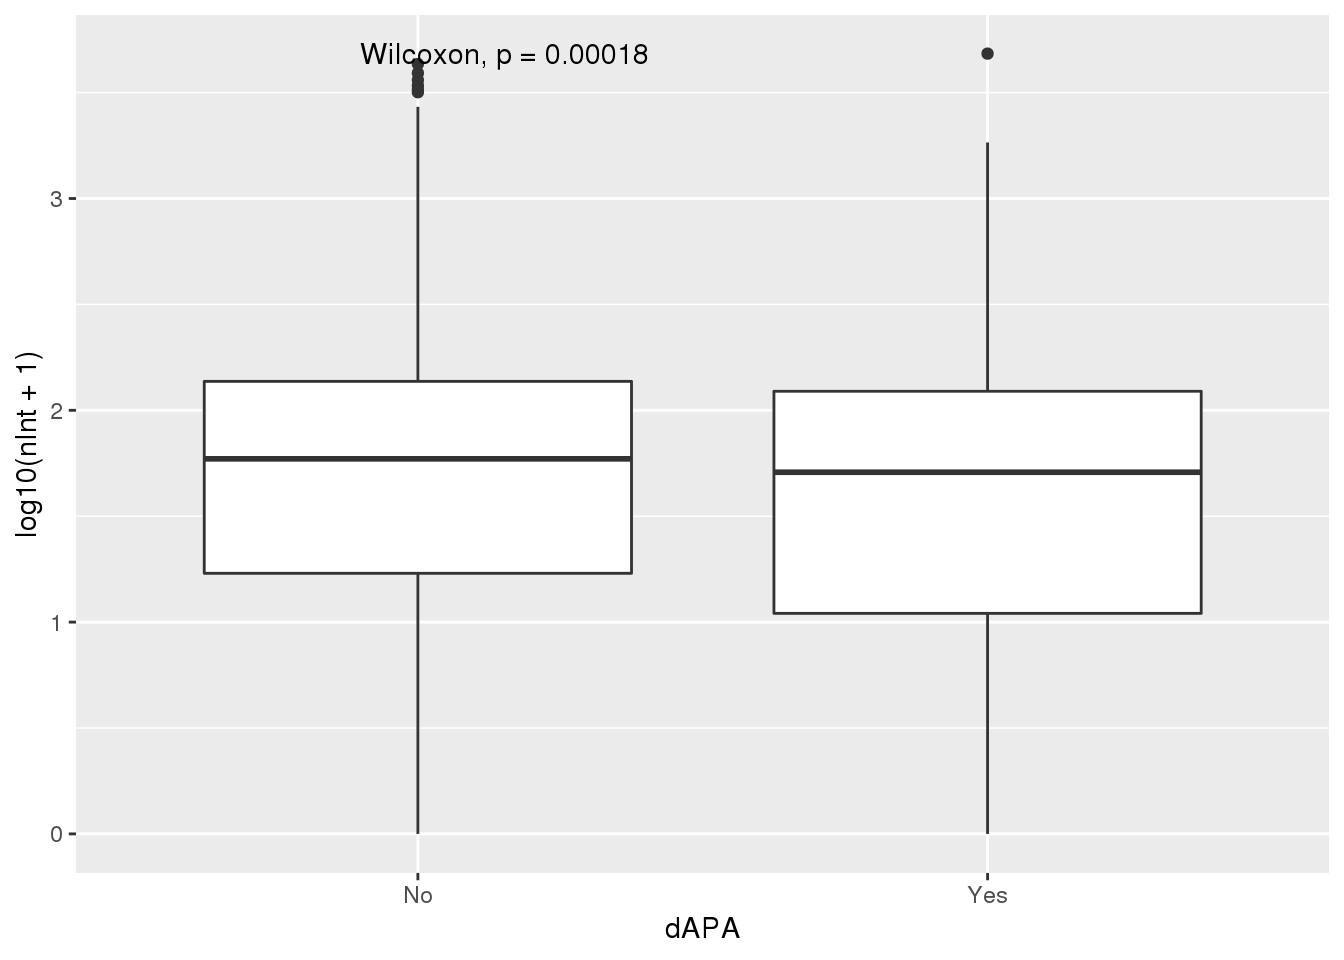
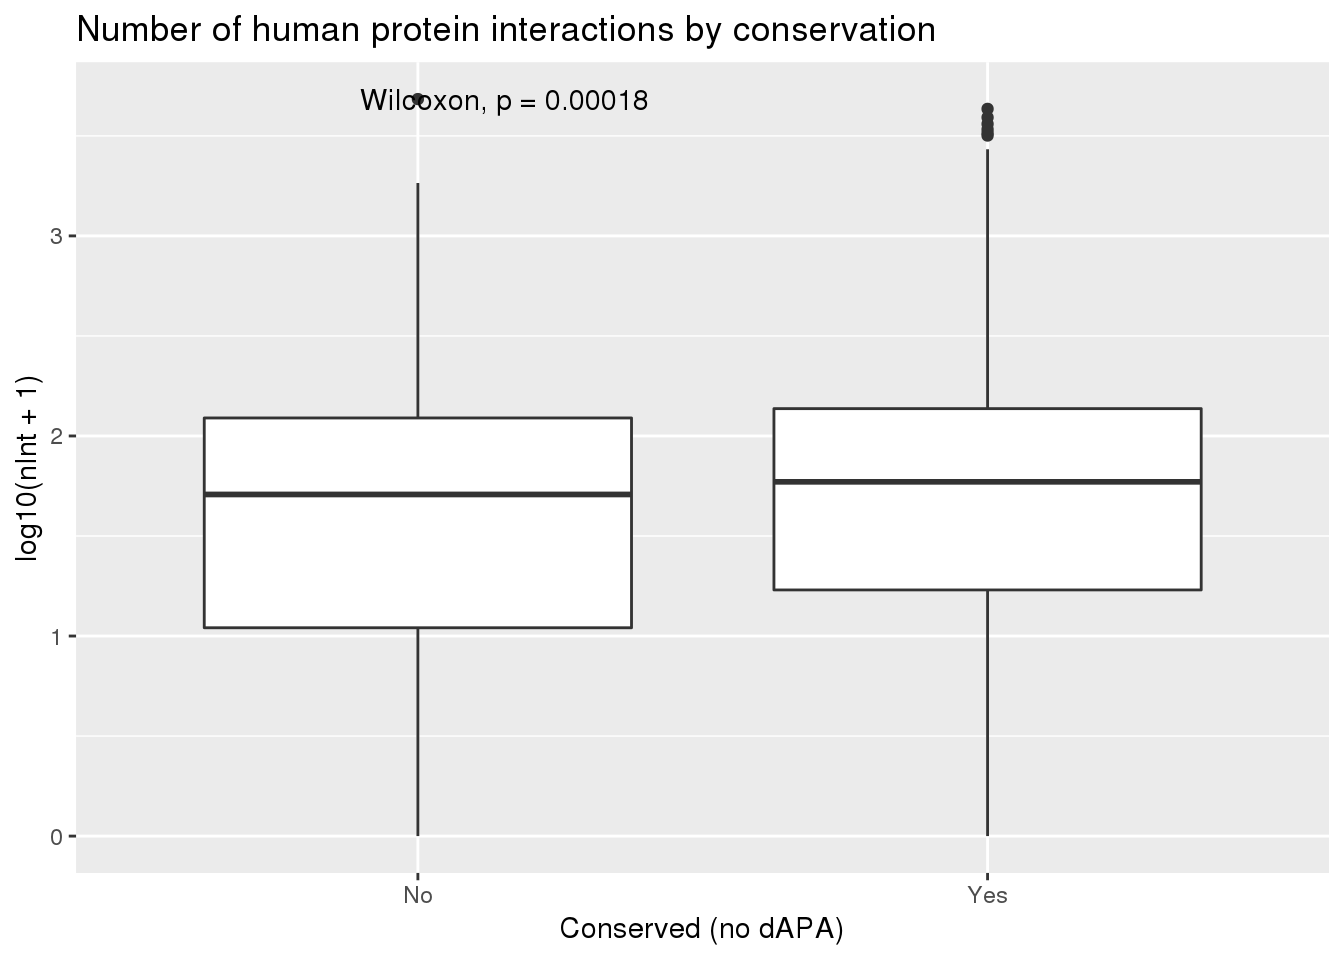
Build site.

diff --git a/docs/PTM_analysis.html b/docs/PTM_analysis.html
@@ -343,7 +343,7 @@ div.section {
 <div class="tab-content">
 <div id="summary" class="tab-pane fade in active">
 <p>
-<strong>Last updated:</strong> 2020-04-10
+<strong>Last updated:</strong> 2020-04-15
 </p>
 <p>
 <strong>Checks:</strong> <span class="glyphicon glyphicon-ok text-success" aria-hidden="true"></span> 7 <span class="glyphicon glyphicon-exclamation-sign text-danger" aria-hidden="true"></span> 0
@@ -434,10 +434,10 @@ This reproducible <a href="http://rmarkdown.rstudio.com">R Markdown</a> analysis
 <div class="panel panel-default">
 <div class="panel-heading">
 <p class="panel-title">
-<a data-toggle="collapse" data-parent="#workflowr-checks" href="#strongRepositoryversionstrongahrefhttpsgithubcombrimittlemanComparativeAPAtreedb347d06eb4978aec4be061af75655b0f1453afdtargetblankdb347d0a"> <span class="glyphicon glyphicon-ok text-success" aria-hidden="true"></span> <strong>Repository version:</strong> <a href="https://github.com/brimittleman/Comparative_APA/tree/db347d06eb4978aec4be061af75655b0f1453afd" target="_blank">db347d0</a> </a>
+<a data-toggle="collapse" data-parent="#workflowr-checks" href="#strongRepositoryversionstrongahrefhttpsgithubcombrimittlemanComparativeAPAtree8a989f74ec9f9c5e22e3fd099b22a3842e945b0etargetblank8a989f7a"> <span class="glyphicon glyphicon-ok text-success" aria-hidden="true"></span> <strong>Repository version:</strong> <a href="https://github.com/brimittleman/Comparative_APA/tree/8a989f74ec9f9c5e22e3fd099b22a3842e945b0e" target="_blank">8a989f7</a> </a>
 </p>
 </div>
[2 lines of base64/hex data omitted]
 <div class="panel-body">
 <p>
 Great! You are using Git for version control. Tracking code development and connecting the code version to the results is critical for reproducibility. The version displayed above was the version of the Git repository at the time these results were generated. <br><br> Note that you need to be careful to ensure that all relevant files for the analysis have been committed to Git prior to generating the results (you can use <code>wflow_publish</code> or <code>wflow_git_commit</code>). workflowr only checks the R Markdown file, but you know if there are other scripts or data files that it depends on. Below is the status of the Git repository when the results were generated:
@@ -460,6 +460,7 @@ Untracked files:
     Untracked:  ._.DS_Store
     Untracked:  Chimp/
     Untracked:  Human/
+    Untracked:  analysis/AREstabilityScores.Rmd
     Untracked:  analysis/CrossChimpThreePrime.Rmd
     Untracked:  analysis/DiffTransProtvsExpression.Rmd
     Untracked:  analysis/DiffUsedUTR.Rmd
@@ -699,6 +700,7 @@ Untracked files:
     Untracked:  code/FilterPrimSec.sh
     Untracked:  code/FilterReverseLift.err
     Untracked:  code/FilterReverseLift.out
+    Untracked:  code/FindDomXCutoff.py
     Untracked:  code/FindIntronForDomPAS.err
     Untracked:  code/FindIntronForDomPAS.out
     Untracked:  code/FindIntronForDomPAS.sh
@@ -781,6 +783,8 @@ Untracked files:
     Untracked:  code/RunNegMCMediationDF.out
     Untracked:  code/RunNegMCMediationDF.sh
     Untracked:  code/RunNegMCMediationr.out
+    Untracked:  code/RunNewDom.err
+    Untracked:  code/RunNewDom.out
     Untracked:  code/RunPosMCMediation.err
     Untracked:  code/RunPosMCMediation.sh
     Untracked:  code/RunPosMCMediationDF.err
@@ -1015,6 +1019,7 @@ Untracked files:
     Untracked:  code/runFilterNumChroms.sh
     Untracked:  code/runHumanDiffIso.sh
     Untracked:  code/runHumanDiffIsoDF.sh
+    Untracked:  code/runNewDom.sh
     Untracked:  code/runNuclearDiffIso_DF.sh
     Untracked:  code/runNuclearDifffIso.sh
     Untracked:  code/runTotalDiffIso.sh
@@ -1130,6 +1135,7 @@ Untracked files:
     Untracked:  data/._~$RNASEQ_metadata.xlsx
     Untracked:  data/._~$metadata_HCpanel.xlsx
     Untracked:  data/._.xlsx
+    Untracked:  data/ARE_Elements/
     Untracked:  data/BaseComp/
     Untracked:  data/CleanLiftedPeaks_FC_primary/
     Untracked:  data/CompapaQTLpas/
@@ -1142,6 +1148,7 @@ Untracked files:
     Untracked:  data/DiffSplice/
     Untracked:  data/DiffSplice_liftedJunc/
     Untracked:  data/DiffSplice_removeBad/
+    Untracked:  data/DomDefGreaterX/
     Untracked:  data/DominantPAS/
     Untracked:  data/DominantPAS_DF/
     Untracked:  data/EvalPantro5/
@@ -1213,6 +1220,7 @@ Untracked files:
     Untracked:  data/metadata_HCpanel_extra.txt
     Untracked:  data/metadata_HCpanel_frompantro5.txt
     Untracked:  data/metadata_HCpanel_frompantro5.xlsx
+    Untracked:  data/miRNA/
     Untracked:  data/multimap/
     Untracked:  data/orthoUTR/
     Untracked:  data/primaryLift/
@@ -1230,6 +1238,7 @@ Unstaged changes:
     Modified:   analysis/ExploredAPA.Rmd
     Modified:   analysis/MMExpreiment.Rmd
     Modified:   analysis/OppositeMap.Rmd
+    Modified:   analysis/TotalDomStructure.Rmd
     Modified:   analysis/TotalVNuclearBothSpecies.Rmd
     Modified:   analysis/annotationInfo.Rmd
     Modified:   analysis/changeMisprimcut.Rmd
@@ -1278,6 +1287,40 @@ Message
 </tr>
 </thead>
 <tbody>
+<tr>
+<td>
+Rmd
+</td>
+<td>
+<a href="https://github.com/brimittleman/Comparative_APA/blob/8a989f74ec9f9c5e22e3fd099b22a3842e945b0e/analysis/PTM_analysis.Rmd" target="_blank">8a989f7</a>
+</td>
+<td>
+brimittleman
+</td>
+<td>
+2020-04-15
+</td>
+<td>
+add ptm density
+</td>
+</tr>
+<tr>
+<td>
+html
+</td>
+<td>
+<a href="https://rawcdn.githack.com/brimittleman/Comparative_APA/8f72fb75aada53ce686dd19d52cd954bdbdfbaa1/docs/PTM_analysis.html" target="_blank">8f72fb7</a>
+</td>
+<td>
+brimittleman
+</td>
+<td>
+2020-04-10
+</td>
+<td>
+Build site.
+</td>
+</tr>
 <tr>
 <td>
 Rmd
@@ -1411,12 +1454,12 @@ add ptm analysis
 <pre><code>This is workflowr version 1.6.0
 Run ?workflowr for help getting started</code></pre>
 <pre class="r"><code>library(tidyverse)</code></pre>
-<pre><code>── Attaching packages ─────────────────────────────────────────────────────────── tidyverse 1.2.1 ──</code></pre>
+<pre><code>── Attaching packages ────────────────────────────────────────────────────────────────────────── tidyverse 1.2.1 ──</code></pre>
 <pre><code>✔ tibble  2.1.1       ✔ purrr   0.3.2  
 ✔ tidyr   0.8.3       ✔ dplyr   0.8.0.1
 ✔ readr   1.3.1       ✔ stringr 1.3.1  
 ✔ tibble  2.1.1       ✔ forcats 0.3.0  </code></pre>
-<pre><code>── Conflicts ────────────────────────────────────────────────────────────── tidyverse_conflicts() ──
+<pre><code>── Conflicts ───────────────────────────────────────────────────────────────────────────── tidyverse_conflicts() ──
 ✖ tidyr::extract()   masks magrittr::extract()
 ✖ dplyr::filter()    masks stats::filter()
 ✖ dplyr::lag()       masks stats::lag()
@@ -1465,11 +1508,11 @@ GenesWint_g= GenesWint %&gt;% group_by(gene) %&gt;% summarise(nInt=n())</code></
 <p>Join this with the genes I test.</p>
 <pre class="r"><code>NucRes=read.table(&quot;../data/DiffIso_Nuclear_DF/AllPAS_withGeneSig.txt&quot;, header = T, stringsAsFactors = F) %&gt;% group_by(gene, SigPAU2) %&gt;% summarise(N=n()) %&gt;% spread(SigPAU2,N) %&gt;% replace_na(list(Yes=0)) %&gt;% mutate(dAPA=ifelse(Yes&gt;=1, &quot;Yes&quot;, &quot;No&quot;)) %&gt;% dplyr::select(-Yes, -No)
 
-NucResAll= NucRes  %&gt;% left_join(GenesWint_g, by=&quot;gene&quot;) %&gt;%  replace_na(list(nInt=0)) </code></pre>
+NucResAll= NucRes  %&gt;% left_join(GenesWint_g, by=&quot;gene&quot;) %&gt;%  replace_na(list(nInt=0)) %&gt;% mutate(Conserved=ifelse(dAPA==&quot;Yes&quot;, &quot;No&quot;, &quot;Yes&quot;))</code></pre>
 <pre><code>Warning: Column `gene` joining character vector and factor, coercing into
 character vector</code></pre>
 <pre class="r"><code>write.table(GenesWint_g, &quot;../data/bioGRID/GeneswInteractions.txt&quot;,col.names = T, row.names = F, quote = F)</code></pre>
-<pre class="r"><code>ggplot(NucResAll,aes(x=dAPA, y=log10(nInt +1))) + geom_boxplot() + stat_compare_means()</code></pre>
+<pre class="r"><code>ggplot(NucResAll,aes(x=Conserved, y=log10(nInt +1))) + geom_boxplot() + stat_compare_means()+ labs(x=&quot;Conserved (no dAPA)&quot;, title=&quot;Number of human protein interactions by conservation&quot;)</code></pre>
 <p><img src="figure/PTM_analysis.Rmd/unnamed-chunk-9-1.png" width="672" style="display: block; margin: auto;" /></p>
 <p>
 <button type="button" class="btn btn-default btn-xs btn-workflowr btn-workflowr-fig" data-toggle="collapse" data-target="#fig-unnamed-chunk-9-1">
@@ -1493,6 +1536,17 @@ Date
 </tr>
 </thead>
 <tbody>
+<tr>
+<td>
+<a href="https://github.com/brimittleman/Comparative_APA/blob/8f72fb75aada53ce686dd19d52cd954bdbdfbaa1/docs/figure/PTM_analysis.Rmd/unnamed-chunk-9-1.png" target="_blank">8f72fb7</a>
+</td>
+<td>
+brimittleman
+</td>
+<td>
+2020-04-10
+</td>
+</tr>
 <tr>
 <td>
 <a href="https://github.com/brimittleman/Comparative_APA/blob/2242e4af582d177c2cef86a1e242760c9246c205/docs/figure/PTM_analysis.Rmd/unnamed-chunk-9-1.png" target="_blank">2242e4a</a>
@@ -1519,7 +1573,25 @@ brimittleman
 </table>
 </div>
 </div>
-<p>Does not look like this can explain the differences.</p>
+<p>Look at genes with ortho UTR and make it a density:</p>
+<pre class="r"><code>OrthoUTR=read.table(&quot;../data/orthoUTR/HumanDistal3UTR.sort.bed&quot;, col.names = c(&quot;chr&quot;,&#39;start&#39;,&#39;end&#39;,&#39;gene&#39;,&#39;score&#39;,&#39;strand&#39;),stringsAsFactors = F) %&gt;% mutate(length=end-start) %&gt;% select(gene, length)
+
+
+NucResAllUTR=NucResAll%&gt;% inner_join(OrthoUTR, by=&quot;gene&quot;) %&gt;% mutate(density=nInt/length)
+
+
+ggplot(NucResAllUTR,aes(x=Conserved, y=log10(density +.01))) + geom_boxplot() + stat_compare_means() + labs(x=&quot;Conserved (no dAPA)&quot;, title=&quot;Density of human protein interactions by conservation&quot;)</code></pre>
+<p><img src="figure/PTM_analysis.Rmd/unnamed-chunk-10-1.png" width="672" style="display: block; margin: auto;" /></p>
+<p>Look to see if adding 0s adds bias:</p>
+<pre class="r"><code>NucReszNo0= NucResAll  %&gt;% left_join(GenesWint_g, by=&quot;gene&quot;) %&gt;% na.omit() %&gt;% mutate(Conserved=ifelse(dAPA==&quot;Yes&quot;, &quot;No&quot;, &quot;Yes&quot;)) </code></pre>
+<pre><code>Warning: Column `gene` joining character vector and factor, coercing into
+character vector</code></pre>
+<pre class="r"><code>NucReszNo0UTR=NucReszNo0%&gt;% inner_join(OrthoUTR, by=&quot;gene&quot;) %&gt;% mutate(density=nInt.x/length)
+
+ggplot(NucReszNo0,aes(x=Conserved, y=log10(nInt.x +1))) + geom_boxplot() + stat_compare_means()+ labs(x=&quot;Conserved (no dAPA)&quot;, title=&quot;Number of human protein interactions by conservation (no 0)&quot;)</code></pre>
+<p><img src="figure/PTM_analysis.Rmd/unnamed-chunk-11-1.png" width="672" style="display: block; margin: auto;" /></p>
+<pre class="r"><code>ggplot(NucReszNo0UTR,aes(x=Conserved, y=log10(density +.01))) + geom_boxplot() + stat_compare_means() + labs(x=&quot;Conserved (no dAPA)&quot;, title=&quot;Density of human protein interactions by conservation&quot;)</code></pre>
+<p><img src="figure/PTM_analysis.Rmd/unnamed-chunk-11-2.png" width="672" style="display: block; margin: auto;" /> Diff is 7442 vs 8422</p>
 <p>Enriched for non 0?</p>
 <pre class="r"><code>NucResAll_g= NucResAll %&gt;% mutate(HasInteraction=ifelse(nInt&gt;0, &quot;Yes&quot;, &quot;No&quot;)) %&gt;% group_by(dAPA, HasInteraction) %&gt;% summarise(nWithSet=n())
 
